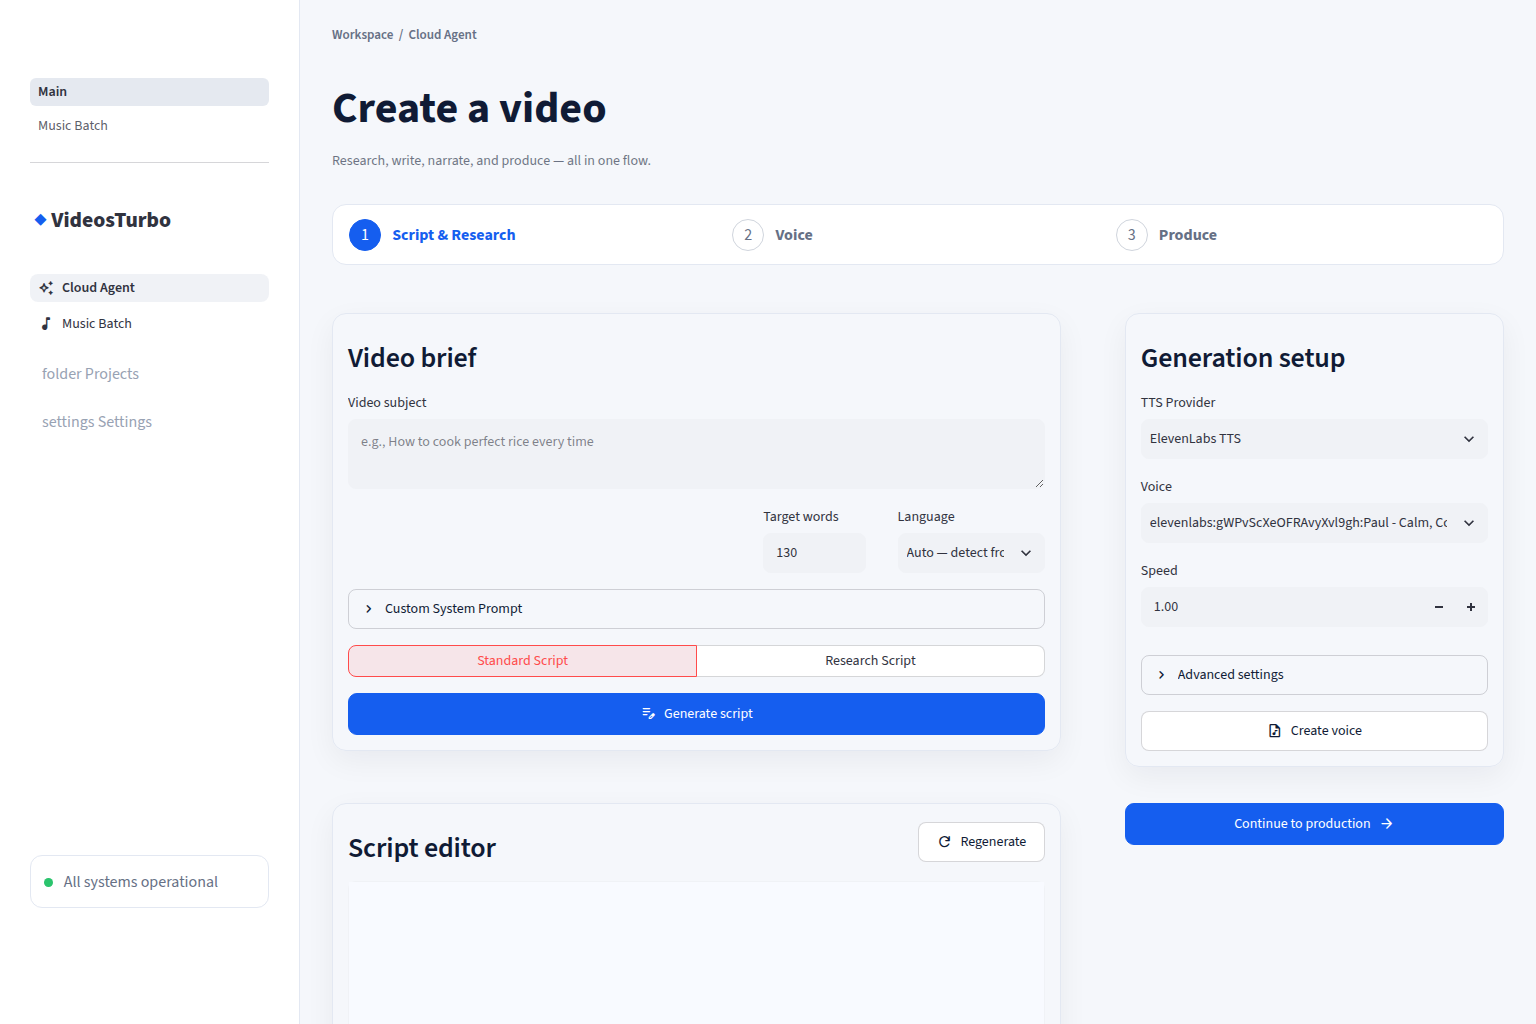
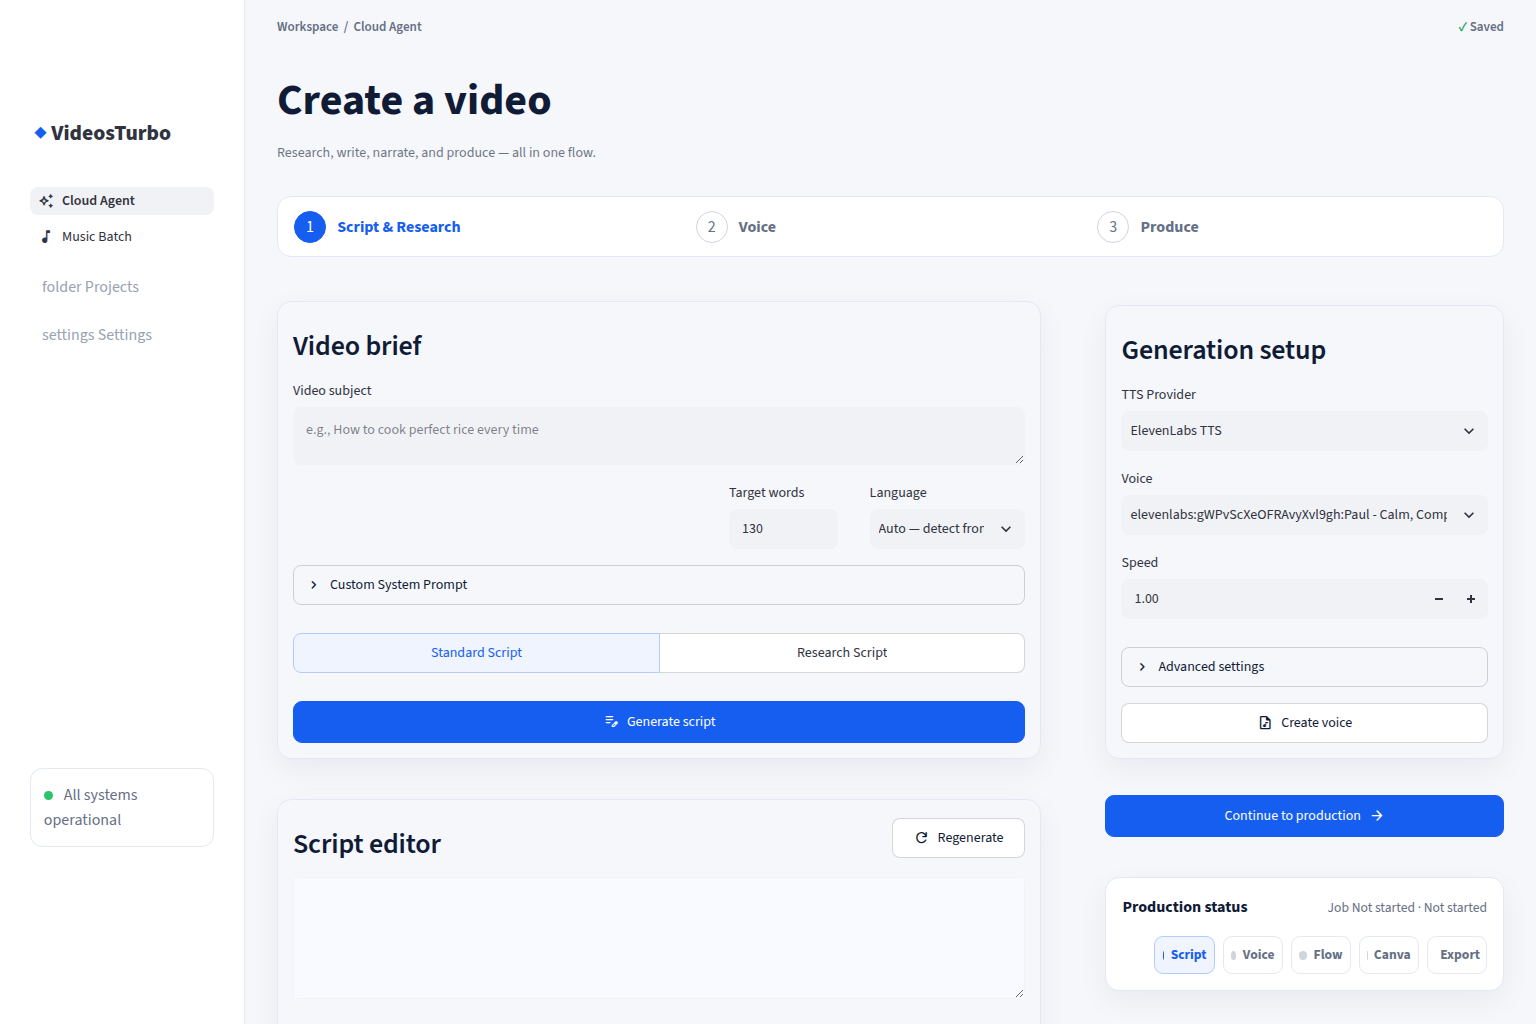
fix: correct cloud agent ui acceptance

diff --git a/webui/cloud_agent.css b/webui/cloud_agent.css
@@ -16,7 +16,7 @@
 header[data-testid="stHeader"],
 div[data-testid="stToolbar"],
 div[data-testid="stDecoration"],
-section[data-testid="stSidebar"] nav[data-testid="stSidebarNav"] {
+section[data-testid="stSidebar"] [data-testid="stSidebarNav"] {
     display: none !important;
 }
 
@@ -24,10 +24,12 @@ section[data-testid="stSidebar"] nav[data-testid="stSidebarNav"] {
 
 div[data-testid="stMainBlockContainer"] {
     max-width: 1440px;
-    padding: 1.5rem 2rem 2rem;
+    padding: 1rem 2rem 1.5rem;
 }
 
 section[data-testid="stSidebar"] {
+    min-width: 245px !important;
+    width: 245px !important;
     border-right: 1px solid var(--vt-border);
     background: var(--vt-surface);
 }
@@ -36,6 +38,7 @@ section[data-testid="stSidebar"] {
 .vt-wordmark span { color: var(--vt-primary); }
 .vt-breadcrumb, .vt-saved { color: var(--vt-text-muted); font-size: 0.82rem; font-weight: 600; }
 .vt-saved span { color: var(--vt-success); }
+.vt-header-meta { display: flex; align-items: center; justify-content: space-between; gap: 1rem; }
 .vt-nav-disabled { color: #98a2b3; padding: 0.7rem 0.75rem; cursor: not-allowed; }
 .vt-system-status { margin-top: 40vh; border: 1px solid var(--vt-border); border-radius: 12px; padding: 0.8rem; color: var(--vt-text-muted); }
 .vt-system-status > span { display: inline-block; width: 0.55rem; height: 0.55rem; border-radius: 50%; margin-right: 0.5rem; background: #2bc46d; }
@@ -72,7 +75,7 @@ div[class*="st-key-cloud_agent_"] textarea:focus-visible {
 }
 
 div.st-key-cloud_agent_brief_card {
-    margin: 1rem 0 1.25rem;
+    margin: 0.75rem 0;
     border-color: var(--vt-border);
     border-radius: var(--vt-radius);
     box-shadow: var(--vt-shadow);
@@ -94,23 +97,35 @@ div[class*="st-key-cloud_agent_research_source_"] input {
     background: var(--vt-surface);
 }
 
-div.st-key-cloud_agent_brief_card [data-testid="stSegmentedControl"] {
+div.st-key-cloud_agent_brief_card [data-testid="stButtonGroup"] {
     margin: 0.75rem 0;
 }
 
-div.st-key-cloud_agent_brief_card [data-testid="stSegmentedControl"] button {
+div.st-key-cloud_agent_brief_card [data-testid="stButtonGroup"] button {
     min-height: 2.5rem;
 }
 
+div.st-key-cloud_agent_subject [data-testid="stTextArea"] textarea {
+    min-height: 56px !important;
+    height: 56px !important;
+}
+
+div.st-key-cloud_agent_script_mode [data-testid="stButtonGroup"]
+button[data-selected="true"] {
+    color: var(--vt-primary) !important;
+    border-color: #b2ccff !important;
+    background: #eff4ff !important;
+}
+
 div.st-key-cloud_agent_script_card {
-    margin: 1rem 0 1.25rem;
+    margin: 0.75rem 0;
     border-color: var(--vt-border);
     border-radius: var(--vt-radius);
     box-shadow: var(--vt-shadow);
 }
 
 div.st-key-cloud_agent_script_card [data-testid="stTextArea"] textarea {
-    min-height: 190px;
+    min-height: 120px;
     background: var(--vt-surface-muted);
 }
 
@@ -214,7 +229,7 @@ div.st-key-cloud_agent_generation_setup_card [data-testid="stExpander"] {
     div[class*="st-key-cloud_agent_workspace"] div[data-testid="stHorizontalBlock"] {
         flex-wrap: wrap;
     }
-    div[class*="st-key-cloud_agent_workspace"] div[data-testid="column"] {
+    div[class*="st-key-cloud_agent_workspace"] div[data-testid="stColumn"] {
         flex: 1 1 100% !important;
         width: 100% !important;
     }

diff --git a/test/services/test_cloud_agent_ui.py b/test/services/test_cloud_agent_ui.py
@@ -1,6 +1,8 @@
 from html import unescape
 from pathlib import Path
 
+from playwright.sync_api import sync_playwright
+
 from webui import cloud_agent_ui
 from webui.cloud_agent_ui import build_production_stages, derive_workflow_step
 
@@ -27,12 +29,12 @@ def test_page_header_uses_approved_primary_copy(monkeypatch):
 
     cloud_agent_ui.render_page_header(saved=True)
 
-    assert fake.titles == ["Create a video"]
-    assert "Research, write, narrate, and produce — all in one flow." in fake.captions
     assert any(
         "Workspace / Cloud Agent" in " ".join(unescape(body).split())
         for body in fake.html_bodies
     )
+    assert fake.titles == ["Create a video"]
+    assert "Research, write, narrate, and produce — all in one flow." in fake.captions
     assert any("Saved" in body for body in fake.html_bodies)
 
 
@@ -56,6 +58,37 @@ def test_cloud_agent_theme_includes_responsive_and_reduced_motion_rules():
     assert "@media (prefers-reduced-motion: reduce)" in css
     assert "transition-duration: 0.01ms !important;" in css
     assert "animation-iteration-count: 1 !important;" in css
+
+
+def test_cloud_agent_workspace_columns_stack_at_tablet_widths():
+    css = Path("webui/cloud_agent.css").read_text(encoding="utf-8")
+    markup = f"""
+        <style>{css}</style>
+        <div class="st-key-cloud_agent_workspace">
+          <div data-testid="stHorizontalBlock" style="display: flex">
+            <div data-testid="stColumn">Brief</div>
+            <div data-testid="stColumn">Generation</div>
+          </div>
+        </div>
+    """
+
+    with sync_playwright() as playwright:
+        browser = playwright.chromium.launch(
+            executable_path="/usr/bin/google-chrome", headless=True
+        )
+        page = browser.new_page(viewport={"width": 1099, "height": 600})
+        page.set_content(markup)
+        tablet_boxes = page.locator('[data-testid="stColumn"]').evaluate_all(
+            "elements => elements.map(element => element.getBoundingClientRect().toJSON())"
+        )
+        page.set_viewport_size({"width": 759, "height": 600})
+        mobile_boxes = page.locator('[data-testid="stColumn"]').evaluate_all(
+            "elements => elements.map(element => element.getBoundingClientRect().toJSON())"
+        )
+        browser.close()
+
+    assert tablet_boxes[1]["y"] > tablet_boxes[0]["y"]
+    assert mobile_boxes[1]["y"] > mobile_boxes[0]["y"]
 
 
 def test_workflow_step_advances_only_from_accepted_local_artifacts():

diff --git a/webui/cloud_agent.py b/webui/cloud_agent.py
@@ -751,7 +751,7 @@ def _render_script_editor(*, brief, ui_state):
         script = st.text_area(
             "Script",
             key="cloud_agent_script",
-            height=190,
+            height=120,
             label_visibility="collapsed",
         )
         with st.expander("View master prompt", expanded=False):
@@ -1304,16 +1304,14 @@ def render_cloud_agent_panel():
                 generation=generation,
                 ui_state=ui_state,
             )
-
-    job_snapshot = dict(ui_state.get("cloud_agent_job_snapshot") or {})
-    cloud_agent_ui.render_production_status(
-        cloud_agent_ui.build_production_stages(
-            script_ready=script_ready,
-            prepared_voice_ready=prepared_voice_ready,
-            job=job_snapshot,
-        ),
-        job_snapshot,
-    )
+            cloud_agent_ui.render_production_status(
+                cloud_agent_ui.build_production_stages(
+                    script_ready=script_ready,
+                    prepared_voice_ready=prepared_voice_ready,
+                    job=job_snapshot,
+                ),
+                job_snapshot,
+            )
     with st.expander("Job controls", expanded=False):
         readiness_controls = st.columns(2)
         for service, column in (

diff --git a/webui/cloud_agent_ui.py b/webui/cloud_agent_ui.py
@@ -110,11 +110,15 @@ def render_sidebar() -> None:
 
 
 def render_page_header(*, saved: bool) -> None:
-    st.html('<div class="vt-breadcrumb">Workspace&nbsp;&nbsp;/&nbsp;&nbsp;Cloud Agent</div>')
+    saved_indicator = '<div class="vt-saved"><span>✓</span> Saved</div>' if saved else ""
+    st.html(
+        '<div class="vt-header-meta">'
+        '<div class="vt-breadcrumb">Workspace&nbsp;&nbsp;/&nbsp;&nbsp;Cloud Agent</div>'
+        f"{saved_indicator}"
+        "</div>"
+    )
     st.title("Create a video")
     st.caption("Research, write, narrate, and produce — all in one flow.")
-    if saved:
-        st.html('<div class="vt-saved"><span>✓</span> Saved</div>')
 
 
 def render_workflow_rail(active_step: int) -> None:

diff --git a/test/services/test_cloud_agent_webui.py b/test/services/test_cloud_agent_webui.py
@@ -1296,9 +1296,9 @@ def test_research_failure_never_stores_draft(monkeypatch):
     assert (
         "Script",
         {
-            "key": "cloud_agent_script",
-            "height": 190,
-            "label_visibility": "collapsed",
+                "key": "cloud_agent_script",
+                "height": 120,
+                "label_visibility": "collapsed",
         },
     ) in fake_streamlit.text_area_calls
 

diff --git a/webui/Main.py b/webui/Main.py
@@ -27,9 +27,7 @@ def _render_application():
     """Render the retained Cloud Agent entry point."""
     cloud_agent_ui.apply_cloud_agent_theme()
     cloud_agent_ui.render_sidebar()
-    cloud_agent_ui.render_page_header(
-        saved=bool(st.session_state.get("cloud_agent_draft_script"))
-    )
+    cloud_agent_ui.render_page_header(saved=True)
     cloud_agent.render_cloud_agent_panel()
 
 
